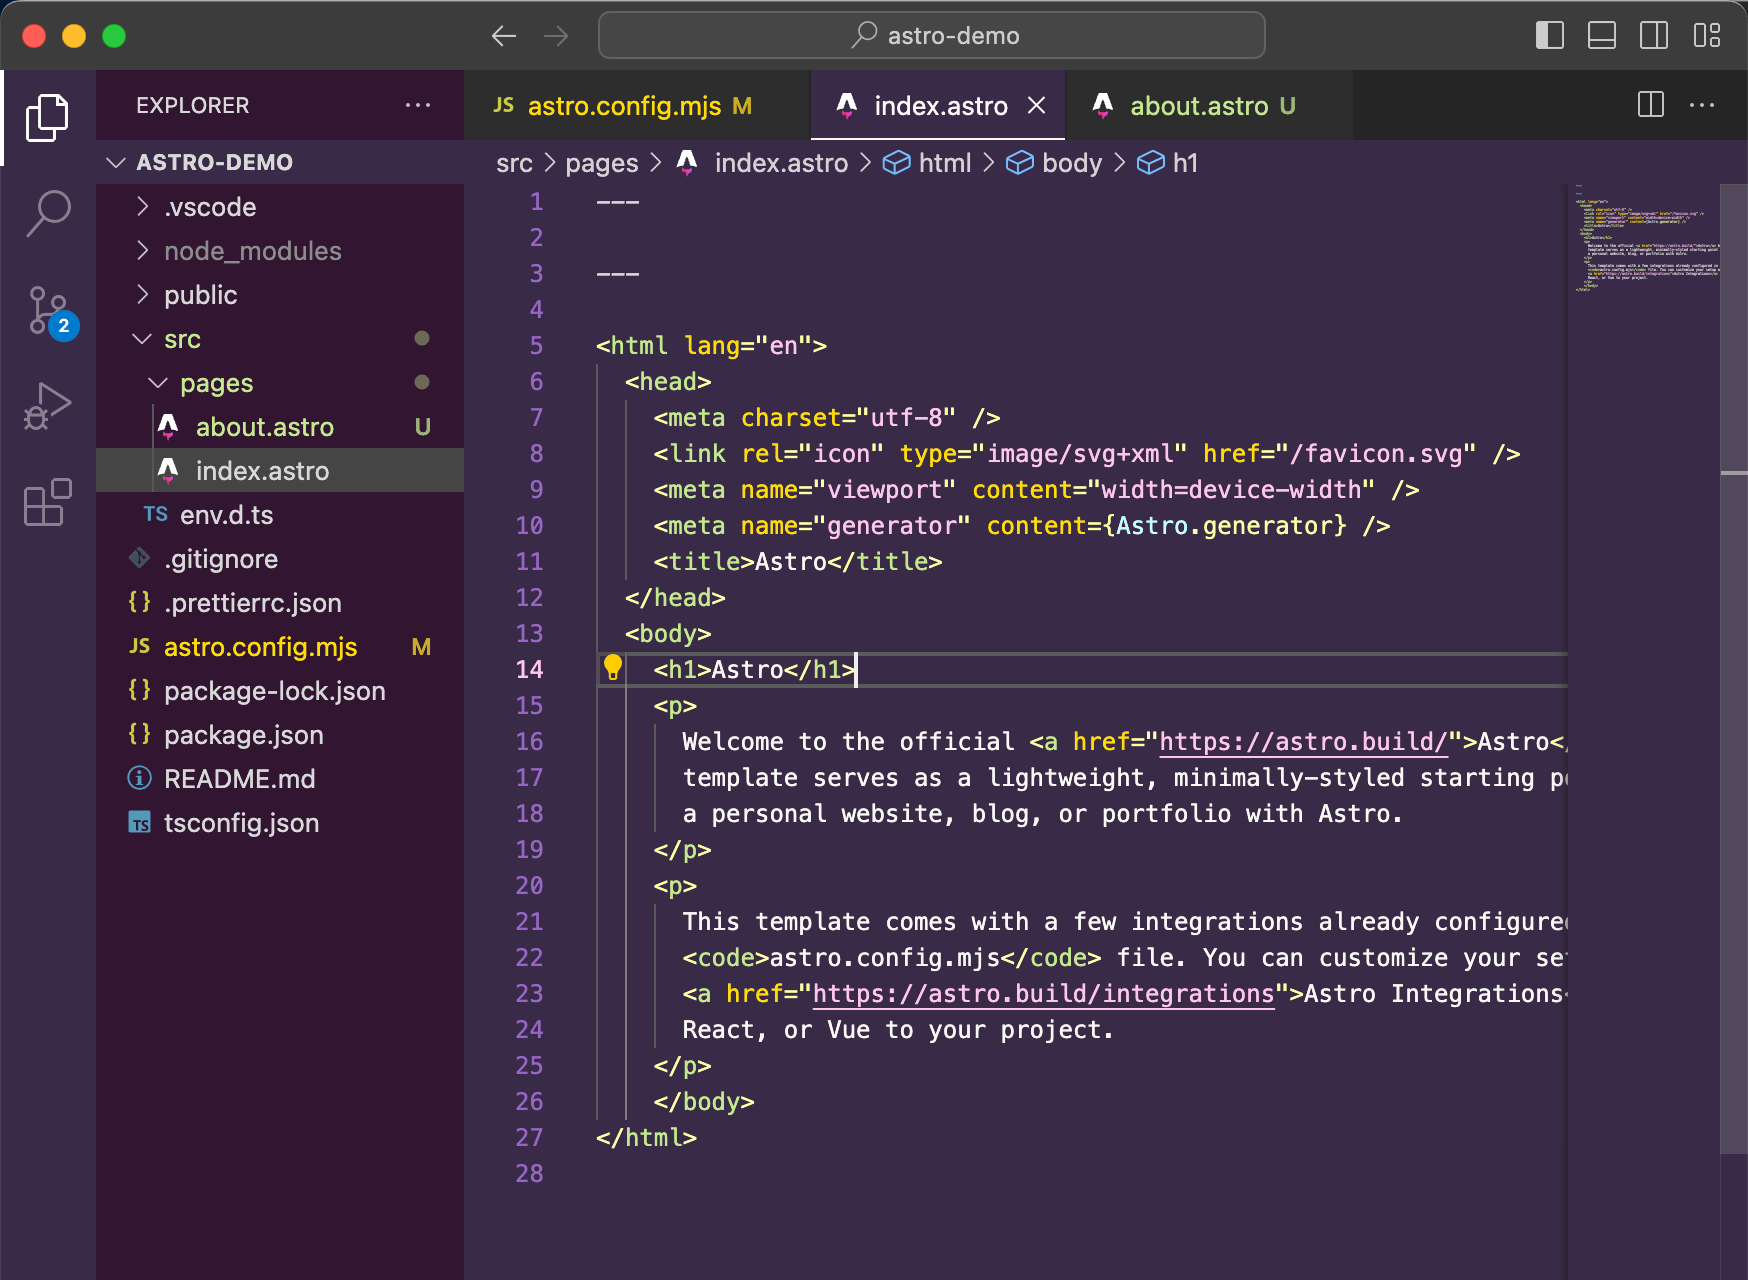
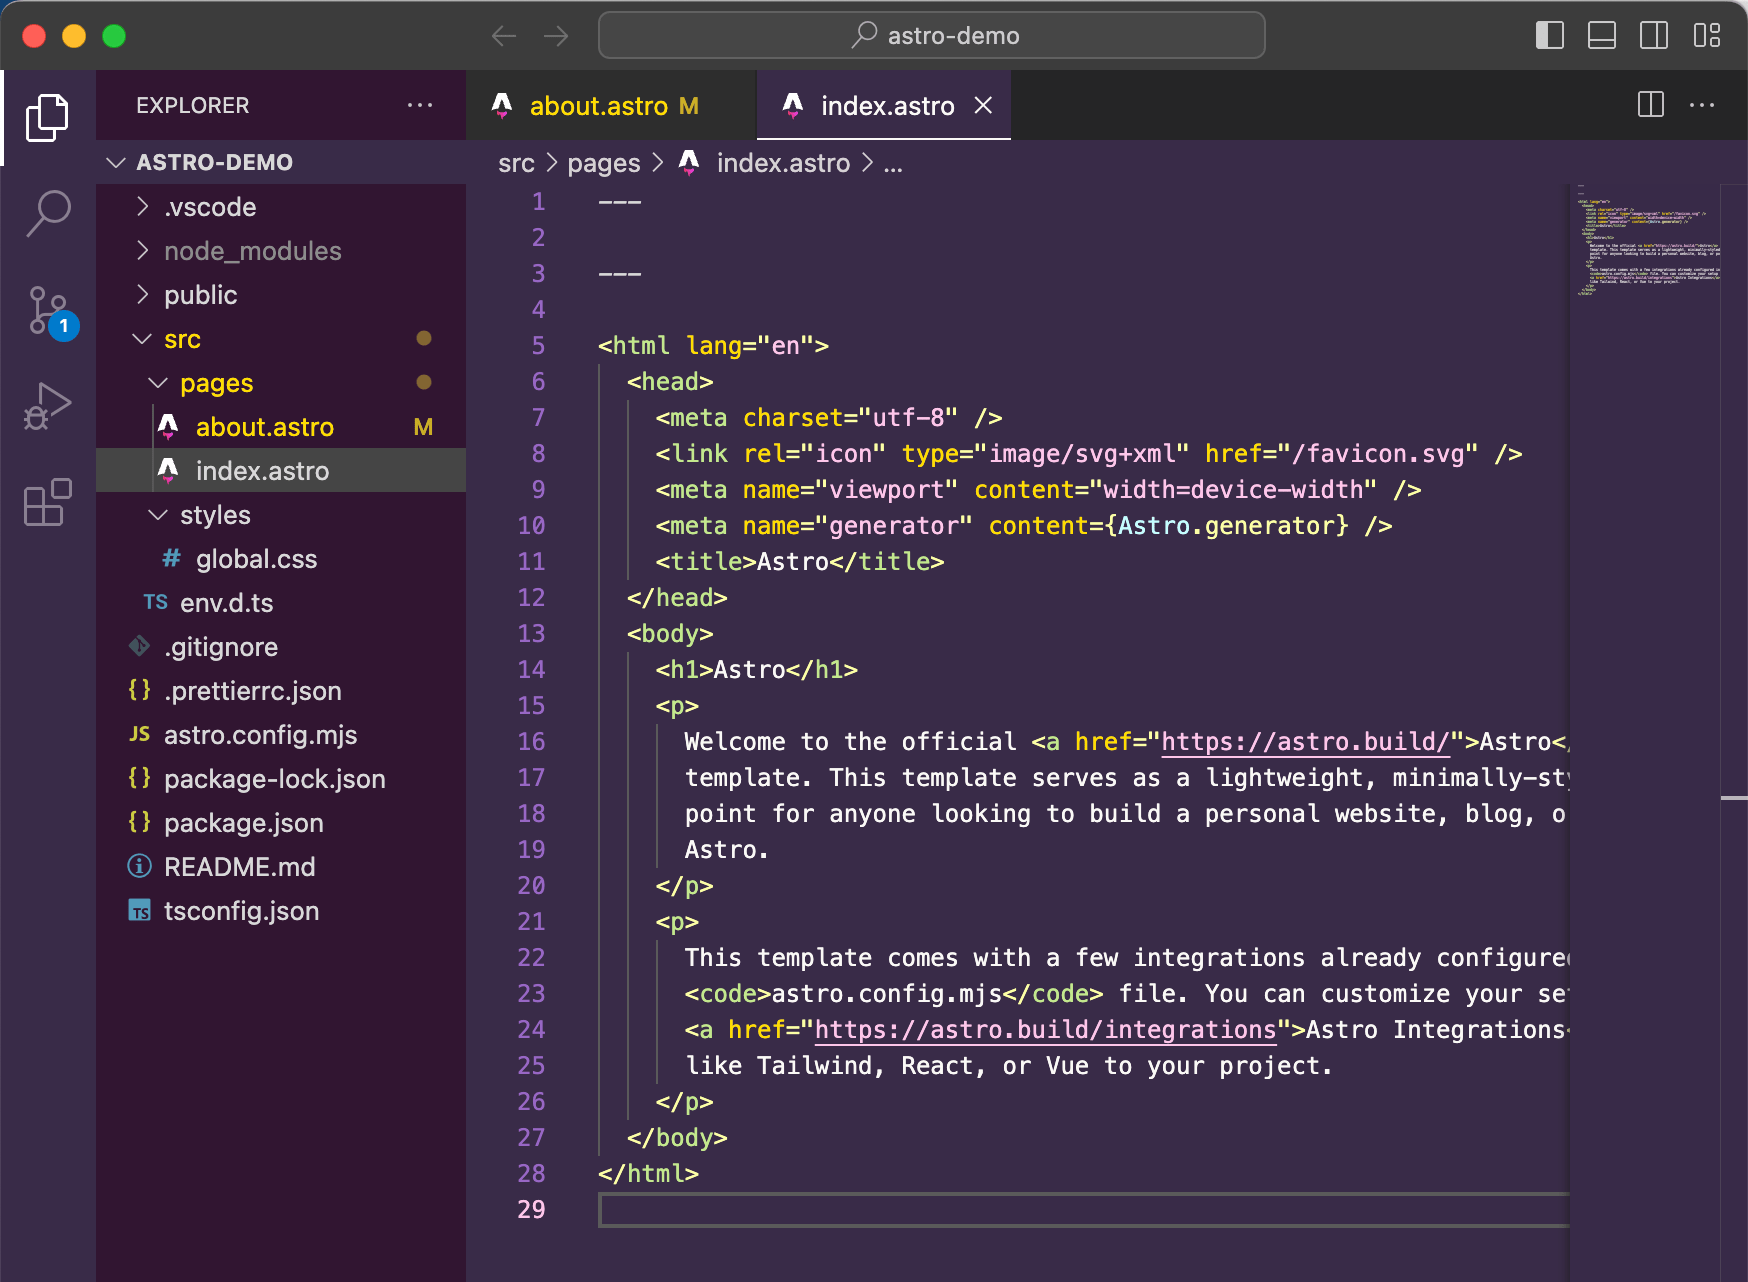
Update HTML screenshot (#5)

diff --git a/CHANGELOG.md b/CHANGELOG.md
@@ -5,6 +5,10 @@ All notable changes to the "techrazor-pro-theme" extension will be documented in
 The format is based on [Keep a Changelog](https://keepachangelog.com/en/1.1.0/)
 and this project adheres to [Semantic Versioning](https://semver.org/spec/v2.0.0.html).
 
+## [1.0.3] - 2024-02-19
+
+- Update screenshot
+
 ## [1.0.2] - 2024-02-19
 
 - Update CHANGELOG
